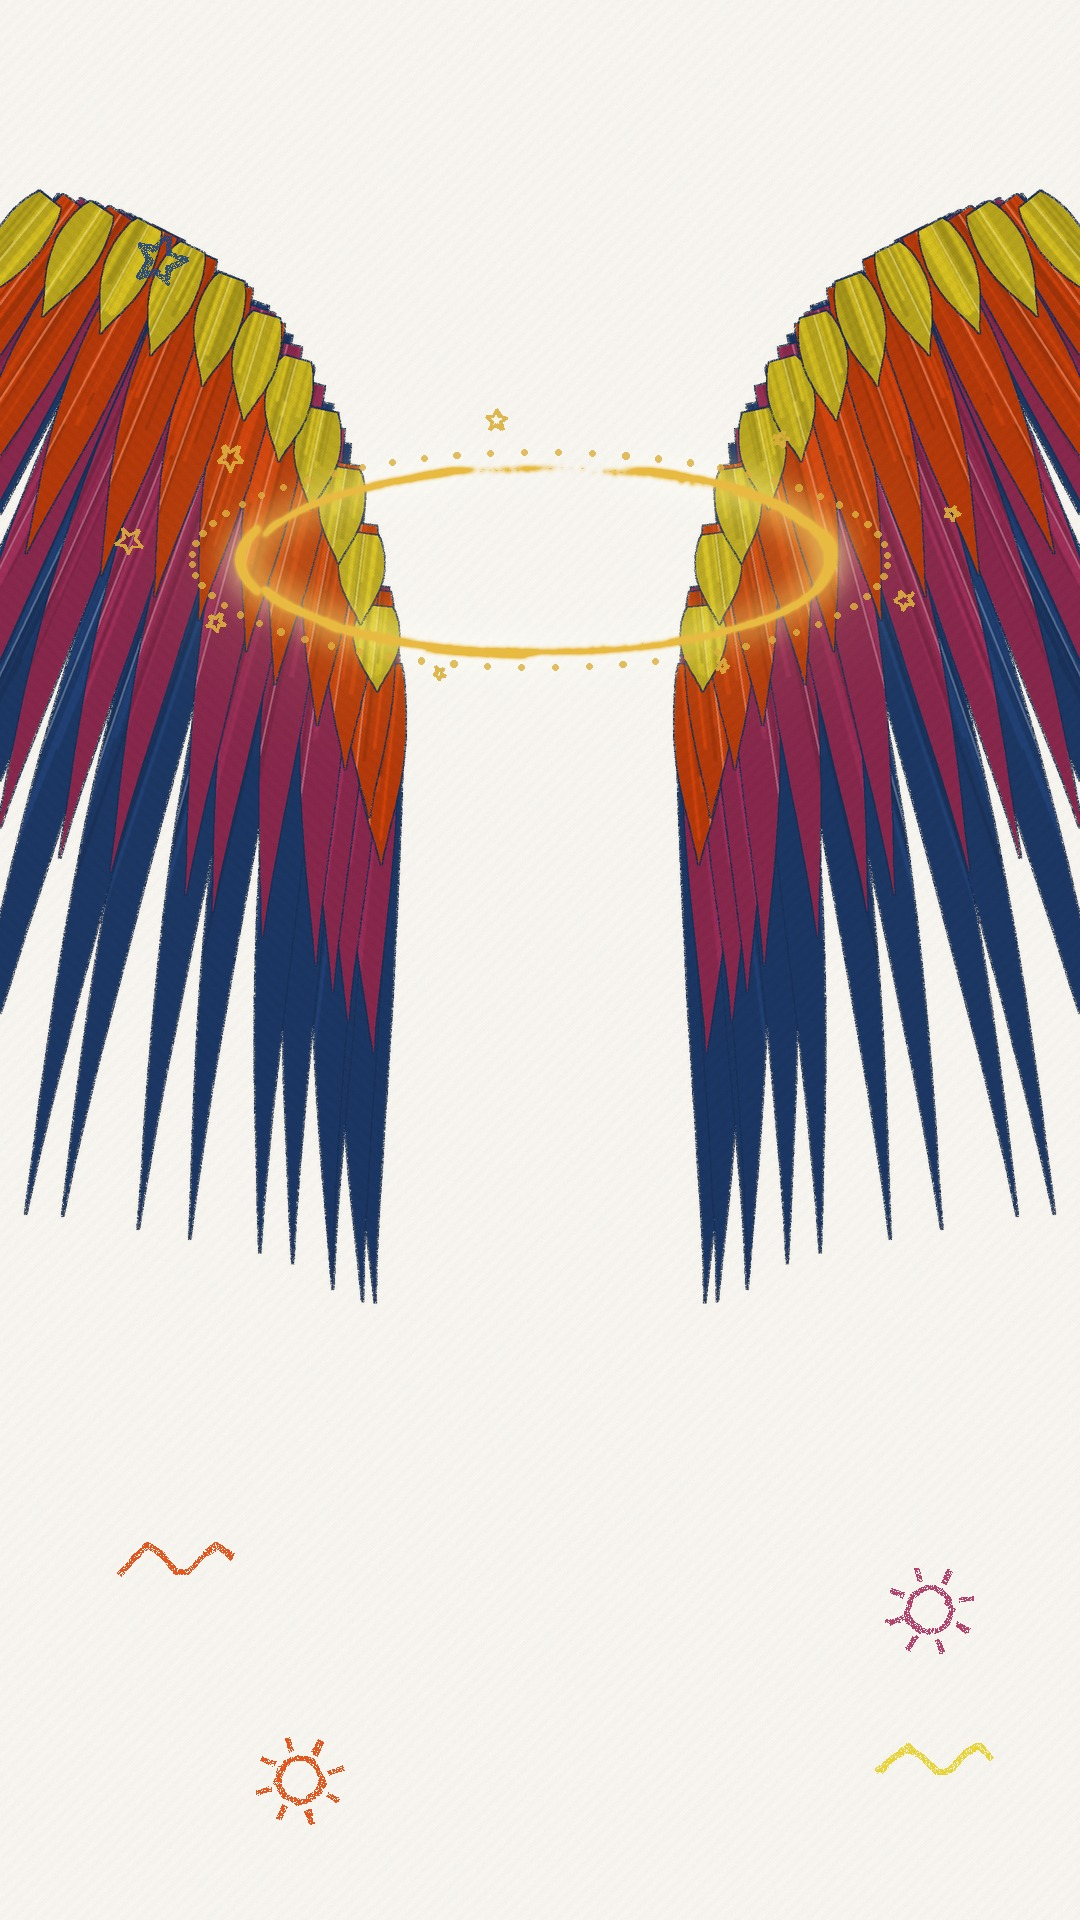
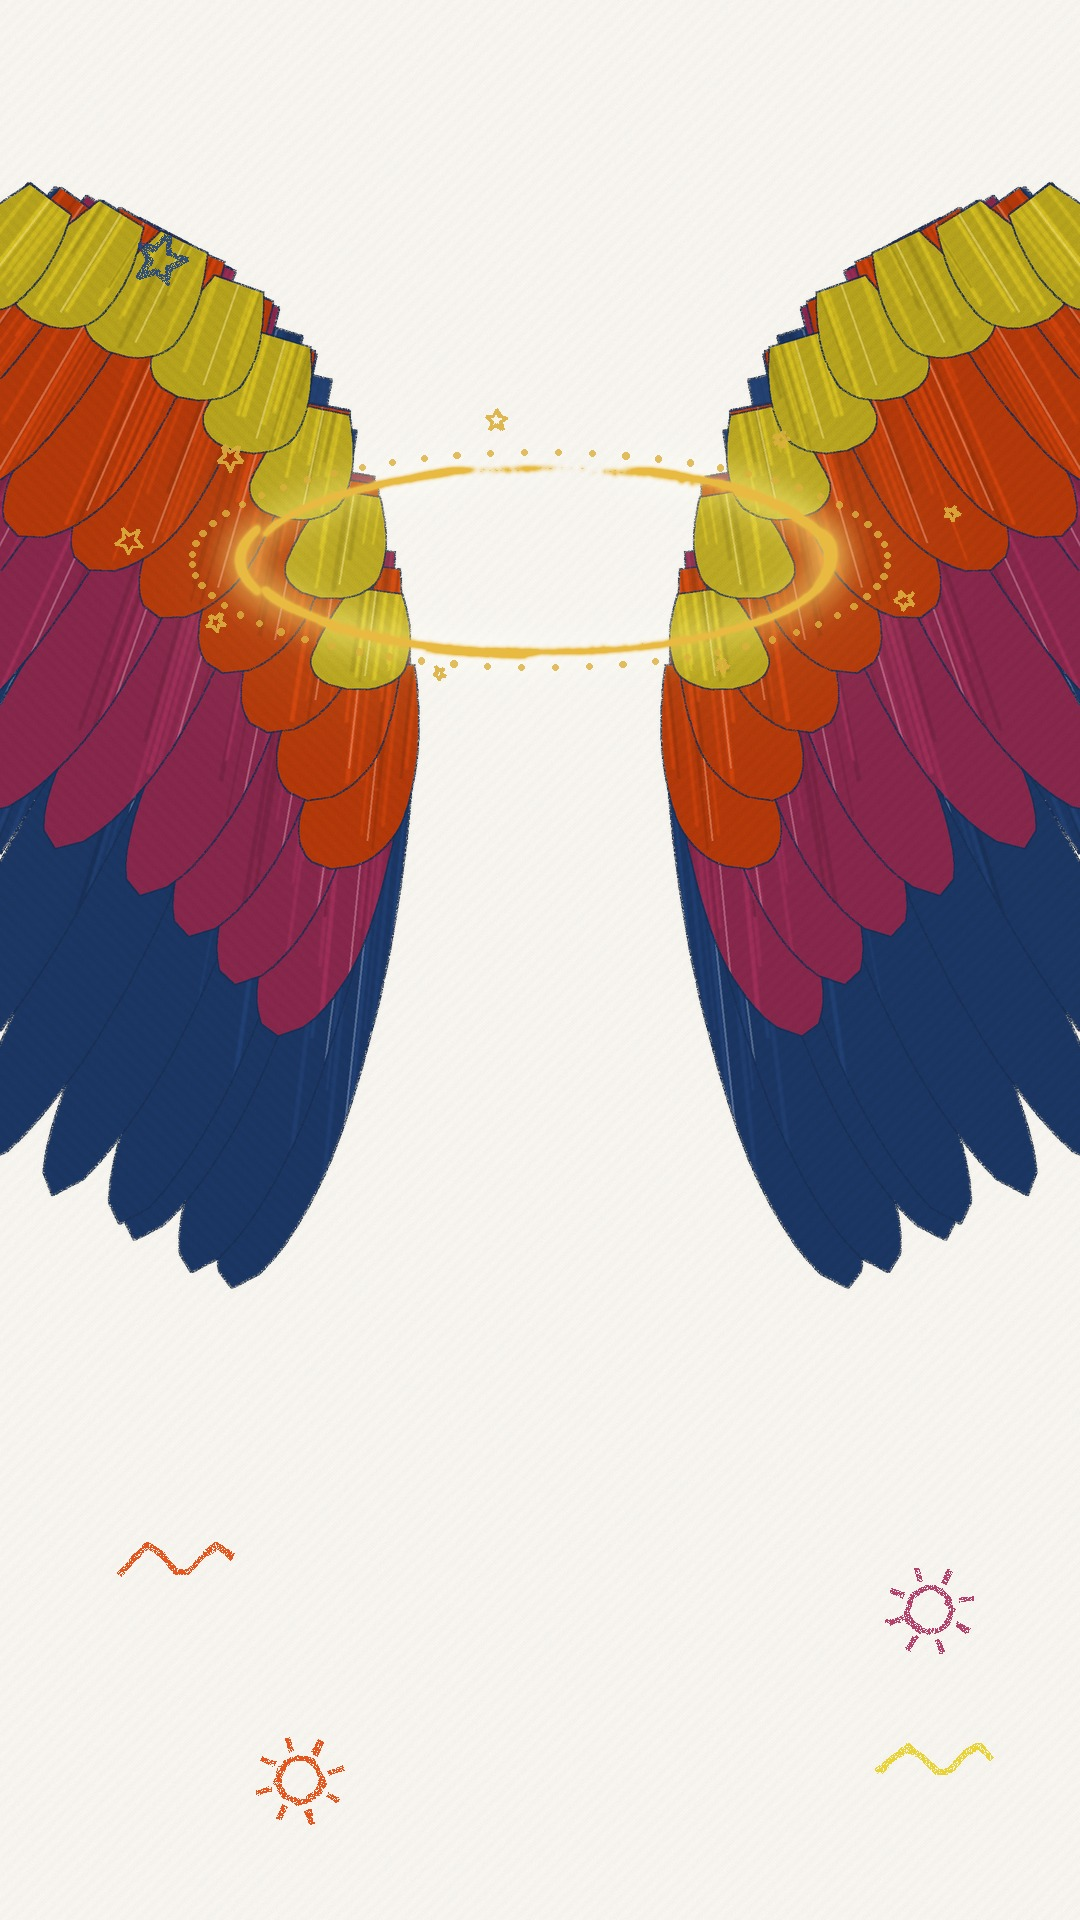
Reel 2: softer, thicker, rounded wing feathers
Claude-Session: https://claude.ai/code/session_01B4VfJFfZ9p9PnoRbF5NJHf

Changed region(s): [[0.6111, 0.0938, 1.0, 0.6875], [0.0, 0.0938, 0.3972, 0.6875]]

diff --git a/reel2/lib.py b/reel2/lib.py
@@ -235,16 +235,20 @@ def halo_layer(cx, cy, rw, tilt_deg, t, ring_col):
 WING_COLS = [ORANGE, MAGENTA, YELLOW, BLUE]
 
 
-def feather_poly(bx, by, ang, L, w, curl=0.08):
-    """Long narrow feather from base (bx,by) pointing at angle ang (rad), pointed tip, slight curve."""
+def feather_poly(bx, by, ang, L, w, curl=0.16):
+    """Soft, thick feather: widest past the middle, rounded tip, gentle outward curve."""
     d = np.array([np.cos(ang), np.sin(ang)]); n = np.array([-d[1], d[0]])
     left, right = [], []
-    for u in np.linspace(0, 1, 18):
+    us = np.linspace(0, 1, 40)
+    for u in us:
         c = np.array([bx, by]) + d * L * u + n * L * curl * u * u
-        hw = w * (0.55 + 0.45 * np.sin(np.pi * min(u * 1.05, 1)) ** 0.7) * (1 - u ** 3)
+        if u < 0.72:
+            hw = w * (0.55 + 0.45 * np.sin(np.pi / 2 * u / 0.72))
+        else:
+            hw = w * np.sqrt(max(0.0, 1 - ((u - 0.72) / 0.28) ** 2))
         left.append(tuple(c + n * hw)); right.append(tuple(c - n * hw))
     tip = tuple(np.array([bx, by]) + d * L + n * L * curl)
-    return left + [tip] + right[::-1], (bx, by), tip
+    return left + right[::-1], (bx, by), tip
 
 
 def wing_layer(side, progress, ss=2):
@@ -257,10 +261,10 @@ def wing_layer(side, progress, ss=2):
     ctrl = np.array([730.0, 230.0]) * ss
     frng = np.random.default_rng(11)
     rows = [  # (count, length range, width, colour idx cycle, arm offset)
-        (16, (600, 1120), 24, [3], 0.0),
-        (14, (380, 700), 25, [1], 0.02),
-        (12, (200, 380), 26, [0], 0.04),
-        (11, (80, 125), 24, [2], 0.06),
+        (12, (600, 1080), 46, [3], 0.0),
+        (10, (380, 680), 48, [1], 0.02),
+        (9, (210, 370), 50, [0], 0.04),
+        (8, (95, 140), 46, [2], 0.06),
     ]
     order = 0
     total = sum(r[0] for r in rows)
@@ -282,7 +286,7 @@ def wing_layer(side, progress, ss=2):
             if appear <= 0:
                 continue
             ease = 1 - (1 - appear) ** 3
-            poly, base, tip = feather_poly(p[0], p[1], ang + (1 - ease) * 0.5, L * (0.35 + 0.65 * ease), fw * ss)
+            poly, base, tip = feather_poly(p[0], p[1], ang + (1 - ease) * 0.5, L * (0.35 + 0.65 * ease), fw * ss, curl=-0.16)
             col = WING_COLS[cyc[i % len(cyc)]]
             m = Image.new("L", (w, h), 0); ImageDraw.Draw(m).polygon(poly, fill=255)
             # bounding box to keep it cheap
